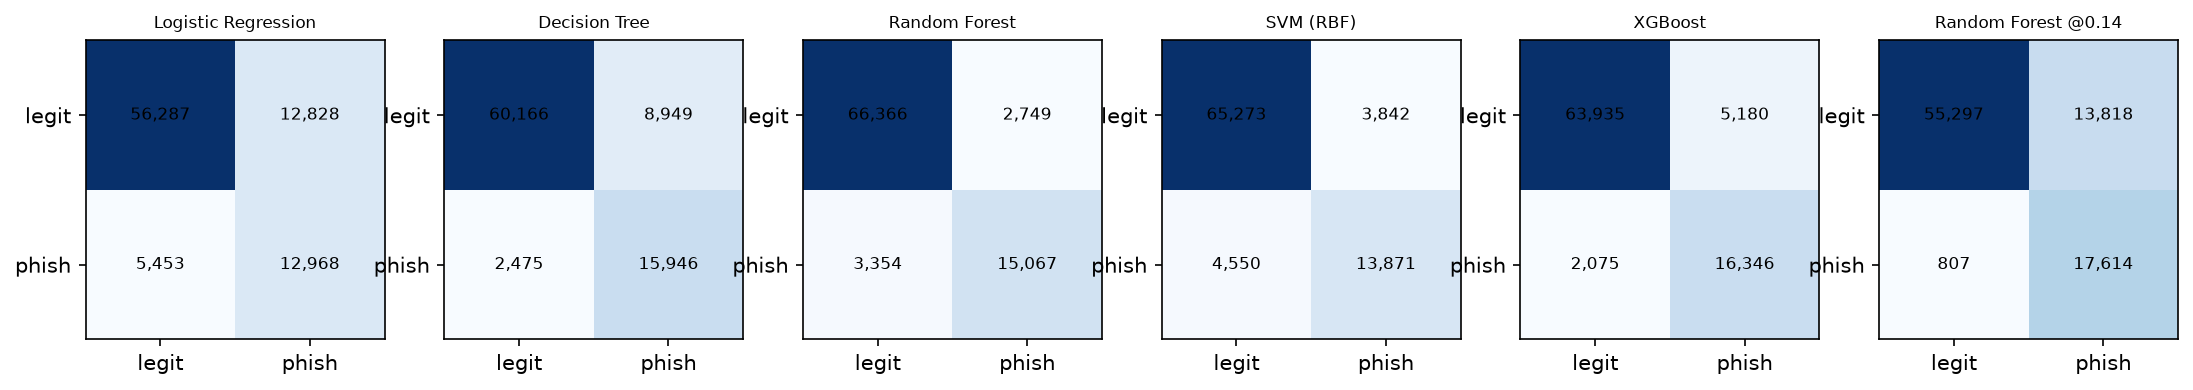
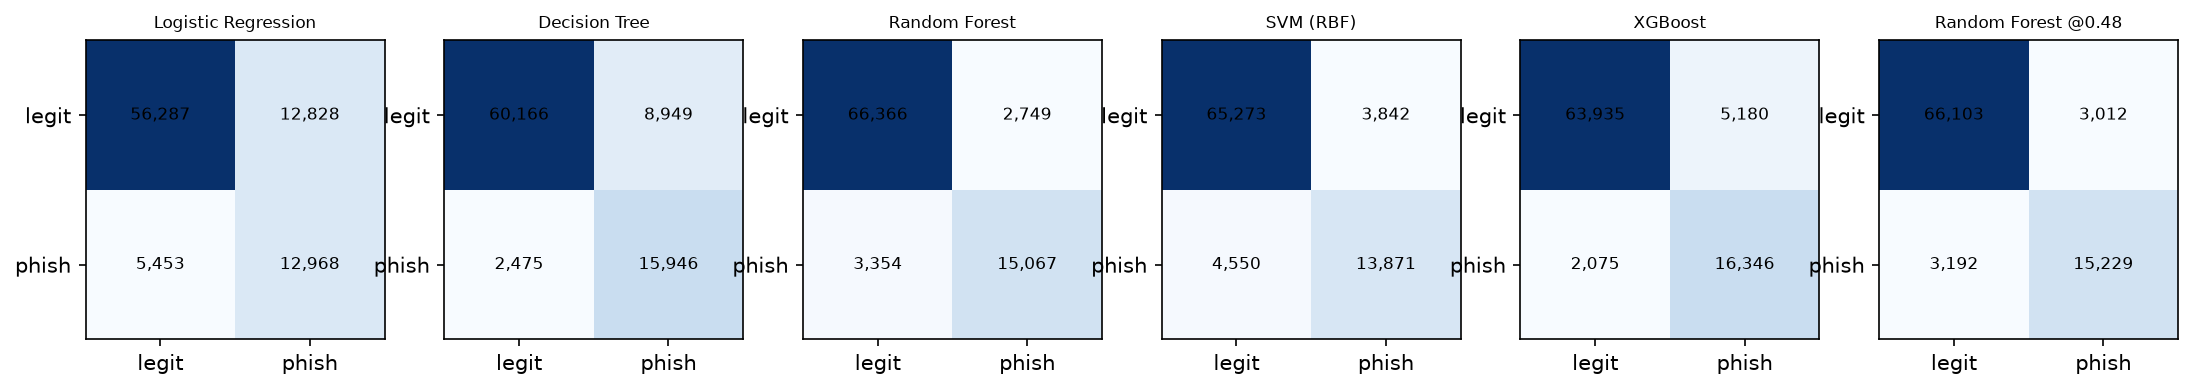
Re-pick threshold by max OOF F1 (0.48), record rule change, add --rethreshold

Changed region(s): [[0.8682, 0.0923, 0.9922, 0.8923]]

diff --git a/ml/train.py b/ml/train.py
@@ -86,15 +86,42 @@ def sweep_thresholds(y: np.ndarray, proba: np.ndarray, grid: np.ndarray | None =
     return pd.DataFrame(rows)
 
 
-def choose_threshold(sweep: pd.DataFrame, target_fnr: float = TARGET_FNR) -> dict:
-    """Max-F1 threshold with FNR <= target; if none qualifies, the lowest-FNR one."""
-    ok = sweep[sweep["fnr"] <= target_fnr]
-    if len(ok):
-        row, rule = ok.loc[ok["f1"].idxmax()], "max_f1_subject_to_fnr"
+def choose_threshold(sweep: pd.DataFrame, target_fnr: float | None = TARGET_FNR) -> dict:
+    """Threshold from out-of-fold predictions.
+
+    ``target_fnr=None``: plain max F1. Otherwise max F1 subject to FNR <= target;
+    if none qualifies, the lowest-FNR threshold.
+    """
+    if target_fnr is None:
+        row, rule = sweep.loc[sweep["f1"].idxmax()], "max_f1"
     else:
-        row, rule = sweep.loc[sweep["fnr"].idxmin()], "fallback_min_fnr"
+        ok = sweep[sweep["fnr"] <= target_fnr]
+        if len(ok):
+            row, rule = ok.loc[ok["f1"].idxmax()], "max_f1_subject_to_fnr"
+        else:
+            row, rule = sweep.loc[sweep["fnr"].idxmin()], "fallback_min_fnr"
     return {"threshold": float(row["threshold"]), "rule": rule, "target_fnr": target_fnr,
             **{k: float(row[k]) for k in ("precision", "recall", "f1", "fnr")}}
+
+
+def rethreshold(target_fnr: float | None, models: Path = MODELS, metrics: Path = METRICS) -> dict:
+    """Re-derive the threshold from the saved OOF sweep without retraining.
+
+    The model file is untouched, so its frozen SHA-256 stays valid. The change
+    is recorded in metadata.json under ``threshold_history``.
+    """
+    sweep = pd.read_csv(metrics / "threshold_sweep.csv")
+    thr = choose_threshold(sweep, target_fnr)
+    meta_path = models / "metadata.json"
+    meta = json.loads(meta_path.read_text(encoding="utf-8"))
+    meta.setdefault("threshold_history", []).append(
+        {"previous": meta["threshold"], "changed_after_test_results_seen": meta.get("test_metrics") is not None
+         or (metrics / "test_metrics.json").exists(), "new_rule": thr["rule"]})
+    meta["threshold"] = thr
+    meta_path.write_text(json.dumps(meta, indent=2), encoding="utf-8")
+    (metrics / "chosen_threshold.json").write_text(
+        json.dumps({"algo": meta["algorithm"], **thr}, indent=2), encoding="utf-8")
+    return thr
 
 
 def select_model(rows: list[dict], tol: float = SELECTION_TOL) -> str:
@@ -227,8 +254,12 @@ def main() -> None:
     p.add_argument("--n-iter", type=int, default=N_ITER)
     p.add_argument("--svm-cap", type=int, default=SVM_CAP)
     p.add_argument("--resume", action="store_true", help="skip tuning; reuse saved cv_results.csv and candidates")
+    p.add_argument("--rethreshold", choices=["max_f1", "fnr"], help="re-pick the threshold from the saved OOF sweep and exit")
     p.add_argument("--quick", action="store_true", help="smoke test on 20k rows, 2 iterations")
     a = p.parse_args()
+    if a.rethreshold:
+        print(rethreshold(None if a.rethreshold == "max_f1" else TARGET_FNR))
+        return
     if a.quick:  # keep smoke-test output away from the real artifacts
         tmp = ROOT / "data" / "processed" / "quick"
         run(a.n_iter, a.svm_cap, True, models=tmp / "models", metrics=tmp / "metrics", figures=tmp / "figures")

diff --git a/ml/evaluate.py b/ml/evaluate.py
@@ -1,6 +1,6 @@
 """Phase 3b: evaluate on the held-out test split, then run the feature-group ablation.
 
-Usage: python -m ml.evaluate
+Usage: python -m ml.evaluate [--no-ablation]   (skip the slow ablation, keep the saved ablation.csv)
 
 The test split is read only here, after ml.train froze the model: the stored
 SHA-256 of phishing_model.joblib must match, or this script refuses to run.
@@ -100,7 +100,8 @@ def _plot_curves(results: dict, y, figures: Path) -> None:
         plt.close(fig)
 
 
-def run(processed: Path = PROCESSED, models: Path = MODELS, metrics: Path = METRICS, figures: Path = FIGURES) -> dict:
+def run(processed: Path = PROCESSED, models: Path = MODELS, metrics: Path = METRICS, figures: Path = FIGURES,
+        ablate: bool = True) -> dict:
     meta = json.loads((models / "metadata.json").read_text(encoding="utf-8"))
     assert meta["frozen"] and _sha256(models / "phishing_model.joblib") == meta["model_sha256"], \
         "model changed after freezing; re-run ml.train before evaluating"
@@ -137,21 +138,25 @@ def run(processed: Path = PROCESSED, models: Path = MODELS, metrics: Path = METR
     plt.close(fig)
     _plot_curves(probas, yt, figures)
 
-    abl = ablation(meta, X, y, Xt, yt)
-    abl.to_csv(metrics / "ablation.csv", index=False)
-    fig, ax = plt.subplots(figsize=(7, 4))
-    sub = abl[abl["kind"] != "baseline"]
-    ax.barh(sub["setting"], sub["d_pr_auc"])
-    ax.set(xlabel="Change in PR-AUC vs all features", title=f"Feature-group ablation ({NAMES[chosen]})")
-    fig.savefig(figures / "ablation.png", dpi=150, bbox_inches="tight")
-    plt.close(fig)
+    if ablate:
+        abl = ablation(meta, X, y, Xt, yt)
+        abl.to_csv(metrics / "ablation.csv", index=False)
+        fig, ax = plt.subplots(figsize=(7, 4))
+        sub = abl[abl["kind"] != "baseline"]
+        ax.barh(sub["setting"], sub["d_pr_auc"])
+        ax.set(xlabel="Change in PR-AUC vs all features", title=f"Feature-group ablation ({NAMES[chosen]})")
+        fig.savefig(figures / "ablation.png", dpi=150, bbox_inches="tight")
+        plt.close(fig)
 
     meta["test_metrics"] = tuned
     (models / "metadata.json").write_text(json.dumps(meta, indent=2), encoding="utf-8")
     print(pd.DataFrame(flat).round(4).to_string(index=False))
-    print(abl.round(4).to_string(index=False))
+    if ablate:
+        print(abl.round(4).to_string(index=False))
     return out
 
 
 if __name__ == "__main__":
-    run()
+    import sys
+
+    run(ablate="--no-ablation" not in sys.argv)

diff --git a/tests/test_train.py b/tests/test_train.py
@@ -70,3 +70,11 @@ def test_compute_metrics_known_values():
     assert m["confusion_matrix"] == {"tn": 3, "fp": 1, "fn": 1, "tp": 3}
     assert m["accuracy"] == 0.75 and m["recall"] == 0.75 and m["fnr"] == 0.25
     assert m["specificity"] == 0.75 and m["precision"] == 0.75
+
+
+def test_unconstrained_threshold_is_plain_max_f1():
+    y = np.array([0] * 50 + [1] * 50)
+    p = np.concatenate([np.linspace(0.0, 0.6, 50), np.linspace(0.4, 1.0, 50)])
+    sweep = sweep_thresholds(y, p)
+    c = choose_threshold(sweep, target_fnr=None)
+    assert c["rule"] == "max_f1" and c["f1"] == sweep["f1"].max()
